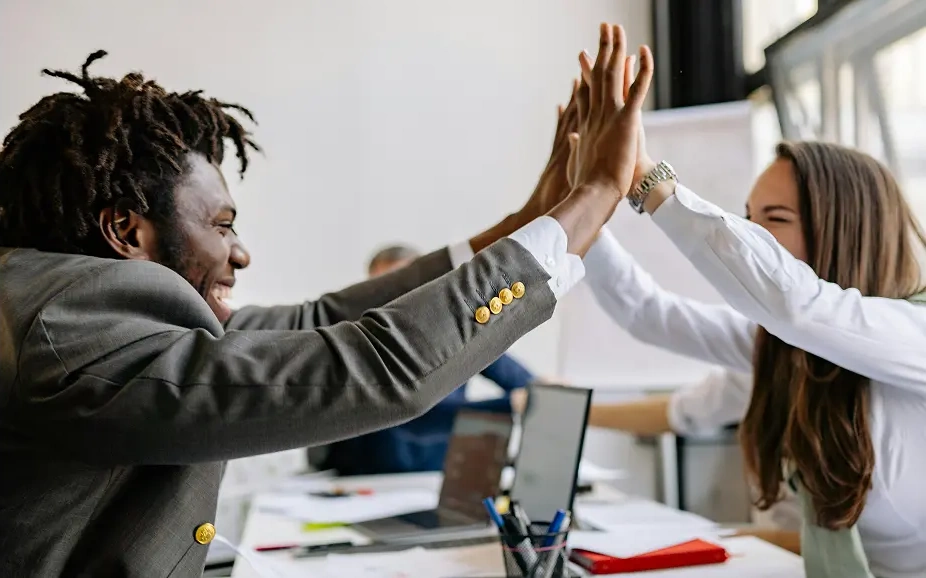
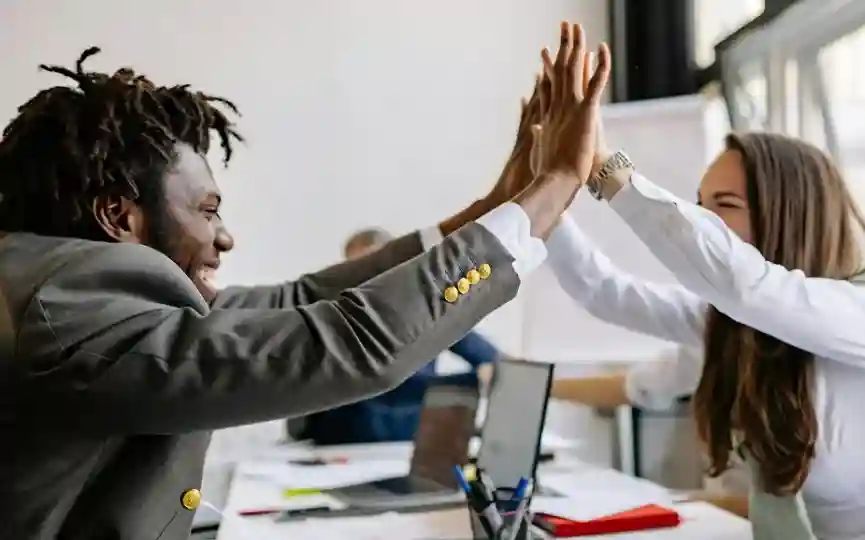
Optimizacion de seccion Servicios

diff --git a/app/contactanos/page.tsx b/app/contactanos/page.tsx
@@ -1,18 +1,9 @@
-"use client";
-
 import { Metadata } from "next";
-import dynamic from "next/dynamic";
-import Image from "next/image";
-
-// Dynamic import para mejorar performance
-const FormContacto = dynamic(() => import("@/components/contactUs/FormContacto"), {
-  ssr: false,
-});
+import FormContacto from "@/components/contactUs/FormContacto";
 
 export const metadata: Metadata = {
   title: "Contáctanos - Centro psicológico | Contigo Voy",
-  description:
-    "En Contigo Voy te escuchamos, llena nuestro formulario de contacto y da el primer paso hacia tu bienestar con un equipo psicológico que te acompaña siempre",
+  description: "En Contigo Voy te escuchamos, llena nuestro formulario de contacto y da el primer paso hacia tu bienestar con un equipo psicológico que te acompaña siempre",
   authors: [{ name: "Contigo Voy" }],
   verification: {
     google: "E00tvOVfRX6v6wc1XmzuZ3gmrwWyisgcyp4c2uNt7CY",
@@ -39,56 +30,55 @@ export const metadata: Metadata = {
 
 const ContactUs = () => {
   return (
-    <div className="flex flex-col justify-center min-h-screen w-full relative overflow-y-hidden overflow-x-clip dark:bg-gradient-to-br dark:from-purple-950 dark:via-indigo-900 dark:to-purple-900 transition-colors duration-300">
-      
-      {/* Hero Background */}
-      <div className="absolute inset-0 z-0 pointer-events-none">
-        <Image
-          src="/consulta-asesoría-psicológica-online.webp"
-          alt="Contactanos Terapia Psicológica Contigo Voy Online"
-          fill
-          priority
-          className="object-bottom object-cover mix-blend-multiply"
-          sizes="(max-width: 640px) 850px, 1250px"
+    <main className="flex flex-col justify-center min-h-screen w-full relative overflow-y-hidden overflow-x-clip bg-large-gradient dark:bg-gradient-to-br dark:from-purple-950 dark:via-indigo-900 dark:to-purple-900 transition-colors duration-300">
+      <div className="lg:relative overflow-y-hidden overflow-x-clip">
+        {/* Imagen decorativa con mejor accesibilidad */}
+        <div 
+          role="img" 
+          aria-label="Persona recibiendo asesoría psicológica online en Contigo Voy"
+          className="mix-blend-multiply z-0 absolute pointer-events-none top-0 -left-[50px] lg:left-[700px] -bottom-[20px] -right-[0] sm:-right-[60px] bg-[url('/consulta-asesoría-psicológica-online.webp')] bg-no-repeat bg-[length:850px] sm:bg-[length:1250px] bg-bottom"
         />
-      </div>
+        
+        <div className="relative z-10 max-w-scv18 mx-auto">
+          <div className="px-scv7 pt-scv7 sm:pt-scv8 sm:px-scv9">
+            {/* Header semánticamente correcto - CENTRADO según max-w-scv18 */}
+            <header className="text-white space-y-6 flex flex-col items-center justify-center w-full text-center">
+              <h1 
+                style={{textShadow: "2px 3px 8px rgba(0,0,0,0.25), 1px 2px 3px rgba(0,0,0,0.32)"}} 
+                className="text-cv8 sm:text-cv9 sm:leading-[60px] font-bold w-full"
+              >
+                ¡La solución que buscas, empieza aquí!
+              </h1>
+              
+              <section aria-labelledby="beneficios-heading" className="w-full">
+                <h2 
+                  id="beneficios-heading"
+                  style={{textShadow: "2px 3px 8px rgba(0,0,0,0.25), 2px 2px 3px rgba(0,0,0,0.45)"}}
+                  className="text-cv8 sm:text-cv8 font-semibold mt-scv6 w-full"
+                >
+                  Beneficios de acercarte a un centro psicológico
+                </h2>
+              </section>
 
-      <div className="relative z-10 max-w-scv18 mx-auto">
-        <div className="container px-scv7 pt-scv7 sm:pt-scv8 sm:px-scv9">
-          <div className="text-white space-y-6 text-center flex flex-col items-center justify-center w-full">
-            
-            {/* H1 Hero */}
-            <h1
-              style={{ textShadow: "2px 3px 8px rgba(0,0,0,0.25), 1px 2px 3px rgba(0,0,0,0.32)" }}
-              className="text-cv8 sm:text-cv9 sm:leading-[60px] font-bold w-full max-w-scv16"
-            >
-              ¡La solución que buscas, empieza aquí!
-            </h1>
+              <section aria-labelledby="contacto-heading" className="w-full">
+                <h2 
+                  id="contacto-heading"
+                  style={{textShadow: "4px 5px 16px rgba(0,0,0,0.35), 2px 2px 3px rgba(0,0,0,0.45)"}} 
+                  className="text-cv8 sm:text-cv8 font-bold mt-scv6 w-full"
+                >
+                  Contáctanos
+                </h2>
+              </section>
+            </header>
 
-            {/* H2 Subtitulo */}
-            <h2
-              style={{ textShadow: "2px 3px 8px rgba(0,0,0,0.25), 2px 2px 3px rgba(0,0,0,0.45)" }}
-              className="text-cv8 sm:text-cv8 font-semibold mt-scv6 w-full max-w-scv16"
-            >
-              Beneficios de acercarte a un centro psicológico
-            </h2>
-
-            {/* H2 CTA */}
-            <h2
-              style={{ textShadow: "4px 5px 16px rgba(0,0,0,0.35), 2px 2px 3px rgba(0,0,0,0.45)" }}
-              className="text-cv8 sm:text-cv8 font-bold mt-scv6 w-full max-w-scv16"
-            >
-              Contáctanos
-            </h2>
-          </div>
-
-          {/* Formulario */}
-          <div className="mt-scv5 w-full flex pb-scv9 justify-center">
-            <FormContacto />
+            {/* Formulario */}
+            <div className="mt-scv5 w-full flex pb-scv9 justify-center">
+              <FormContacto />
+            </div>
           </div>
         </div>
       </div>
-    </div>
+    </main>
   );
 };
 

diff --git a/components/Services/ServicesStructure.tsx b/components/Services/ServicesStructure.tsx
@@ -51,7 +51,7 @@ export default function ServicesStructure({
         {/* Desktop - Background Image */}
         <div className="hidden xl:block absolute inset-0">
           <Image
-            src={service.background}
+            src={service.backgroundDesktop}
             alt={service.bgdownAlt}
             title={service.bgdownTitle}
             fill
@@ -141,12 +141,12 @@ export default function ServicesStructure({
                 <div className="relative w-full h-full rounded-xl overflow-hidden">
                   {" "}
                   <Image
-                    src={service.background}
+                    src={service.backgroundMobile}
                     alt={service.bgdownAlt}
                     title={service.bgdownTitle}
                     fill
                     className="object-cover object-right w-full h-full transform hover:scale-105 transition-transform duration-700"
-                    priority
+                    loading = "lazy"
                   />
                   {/* Modern gradient overlay */}
                   <div className="absolute inset-0 pointer-events-none">
@@ -180,12 +180,12 @@ export default function ServicesStructure({
                     <div className="relative w-full h-full rounded-3xl overflow-hidden bg-gradient-to-br from-blue-50 to-purple-50">
                       {" "}
                       <Image
-                        src={service.background}
+                        src={service.backgroundMobile}
                         alt={service.bgdownAlt}
                         title={service.bgdownTitle}
                         fill
                         className="object-cover object-right hover:scale-105 transition-transform duration-700"
-                        priority
+                        loading = "lazy"
                       />
                       {/* Gradient overlays */}
                       <div className="absolute inset-0 bg-gradient-to-t from-black/10 via-transparent to-white/10"></div>
@@ -219,6 +219,7 @@ export default function ServicesStructure({
           title={service.bgdownTitle}
           fill
           className="object-cover object-center mask-all-fade"
+          loading="lazy"
         />
       </div>
       <div className="flex flex-col pt-scv8 px-scv3">
@@ -354,6 +355,7 @@ export default function ServicesStructure({
                               svg.setAttribute("role", "img");
                               svg.setAttribute("aria-label", icono.title || "Icono de servicio");
                             }}
+                            
                           />
                   </div>
                 </div>
@@ -371,6 +373,8 @@ export default function ServicesStructure({
             title={service.bgdownTitle}
             src={service.bgdown}
             className="object-cover object-right mask-horizontal-fade"
+            loading="lazy"
+
           />
         </div>
       </div>

diff --git a/app/servicios/terapia/infantes/page.tsx b/app/servicios/terapia/infantes/page.tsx
@@ -41,7 +41,9 @@ const NinosTerapias: ServicesStructureProps = {
       la oportunidad de crecer emocionalmente con la ayuda de un profesional?
     </p>
   ),
-  background: "/Services/niños/terapia-psicologica-para-ninos.webp",
+  backgroundDesktop: "/Services/niños/Escritorio-terapia-psicologica-para-ninos.webp",
+  backgroundMobile: "/Services/niños/terapia-psicologica-para-ninos.webp",
+
   bgdown: "/Services/niños/ayuda-emocional-para-ninos-madre-tablet.webp",
   bgdownTitle: "Niños en crecimiento emocional | Psicología Online Contigo Voy",
   bgdownAlt:

diff --git a/app/servicios/terapia/adolescentes/page.tsx b/app/servicios/terapia/adolescentes/page.tsx
@@ -46,7 +46,8 @@ const TeenTerapias: ServicesStructureProps = {
       ?
     </p>
   ),
-  background: "/Services/teen/terapia-psicologica-para-adolescentes.webp",
+  backgroundDesktop: "/Services/teen/Escritorio-terapia-psicologica-para-adolescentes.webp",
+  backgroundMobile: "/Services/teen/terapia-psicologica-para-adolescentes.webp",
   bgup: "/Services/teen/chica_Sentada.webp",
   bgdown: "/Services/teen/psicologos-especializados-en-adolescentes.webp",
   bgdownAlt: "Adolescente feliz | Psicología Online",

diff --git a/app/servicios/terapia/adultos/page.tsx b/app/servicios/terapia/adultos/page.tsx
@@ -45,7 +45,8 @@ const AdultoTerapias: ServicesStructureProps = {
       ?
     </p>
   ),
-  background:"/Services/adult/Terapia_adultos_Mujer_agarrándose_rostro_feliz.webp",
+  backgroundDesktop:"/Services/adult/Escritorio-Terapia_adultos_Mujer_agarrándose_rostro_feliz.webp",
+  backgroundMobile: "/Services/adult/Terapia_adultos_Mujer_agarrándose_rostro_feliz.webp",
   bgdown: "/Services/adult/Terapia_adultos_Mujer_afro_feliz_tablet.webp",
   bgup: "/Services/adult/bgupadultos.webp",
   bgdownAlt:

diff --git a/app/servicios/terapia/parejas/page.tsx b/app/servicios/terapia/parejas/page.tsx
@@ -45,7 +45,8 @@ const ParejaTerapias: ServicesStructureProps = {
       está en crisis? ¿Buscas fortalecer el vínculo?
     </p>
   ),
-  background: "/Services/couple/ayuda-para-parejas-en-crisis.webp",
+  backgroundDesktop: "/Services/couple/Escritorio-ayuda-para-parejas-en-crisis.webp",
+  backgroundMobile: "/Services/couple/ayuda-para-parejas-en-crisis.webp",
   bgdown: "/Services/couple/psicoterapia-para-relaciones-de-pareja.webp",
   bgup: "/Services/couple/bguppareja.webp",
   bgdownAlt: "",

diff --git a/app/servicios/terapia/empresarial/page.tsx b/app/servicios/terapia/empresarial/page.tsx
@@ -39,7 +39,8 @@ const terapiaEmpresarial: ServicesStructureProps = {
       con nuestra terapia empresarial
     </p>
   ),
-  background: "/Services/business/buisness.webp",
+  backgroundDesktop: "/Services/business/Escritorio-buisness.webp",
+  backgroundMobile: "/Services/business/buisness.webp",
   bgdown: "/Services/business/bgempre.webp",
   bgdownAlt: "Servicio Terapia Psicológica para Empresas Contigo Voy Online",
   bgdownTitle: "Terapia Empresarial | Contigo Voy Psicología Online",

diff --git a/app/servicios/terapia/familia/page.tsx b/app/servicios/terapia/familia/page.tsx
@@ -44,7 +44,8 @@ const FamilyTerapias: ServicesStructureProps = {
       están afectando el bienestar de tu hogar?
     </p>
   ),
-  background: "/Services/family/terapia-familiar-online.webp",
+  backgroundDesktop: "/Services/family/Escritorio-terapia-familiar-online.webp",
+  backgroundMobile: "/Services/family/terapia-familiar-online.webp",
   bgdown: "/Services/family/terapia-para-mejorar-relaciones-familiares.webp",
   bgdownAlt: "",
   bgdownTitle: "",

diff --git a/interface/index.ts b/interface/index.ts
@@ -47,7 +47,8 @@ export interface ServicesStructureProps {
   edad: string;
   edadMobil: string;
   motto: React.ReactElement;
-  background: string;
+  backgroundDesktop: string;
+  backgroundMobile: string;
   bgdown: string;
   bgdownAlt: string;
   bgdownTitle: string;
